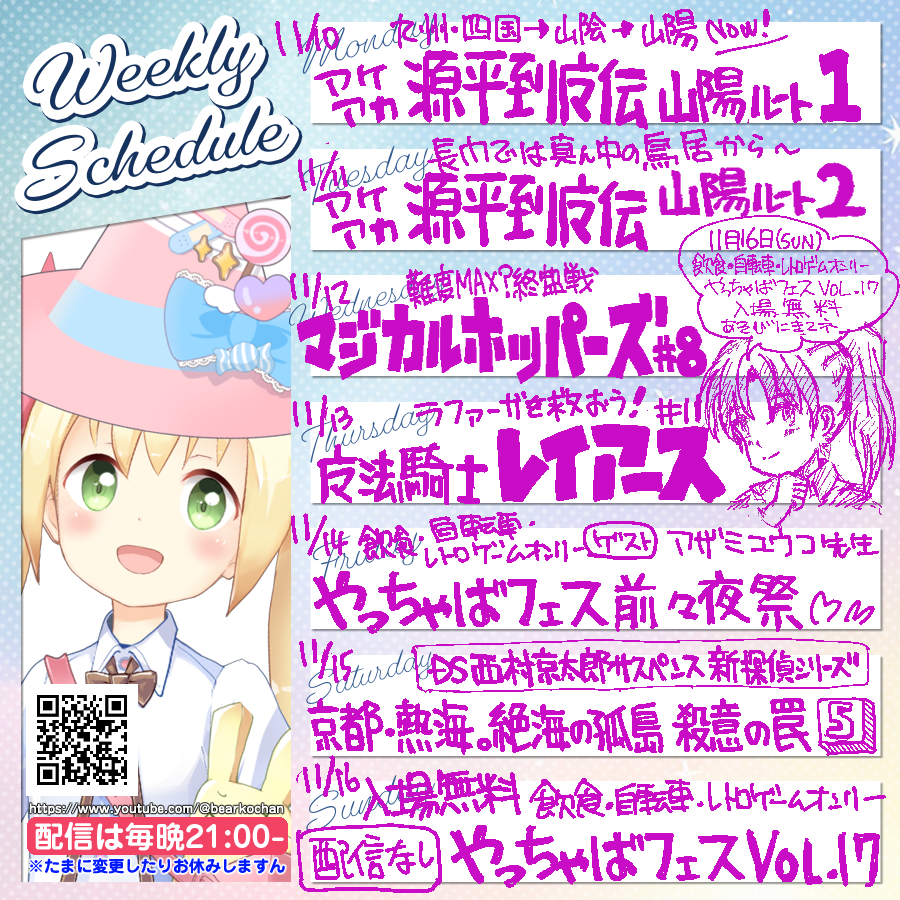
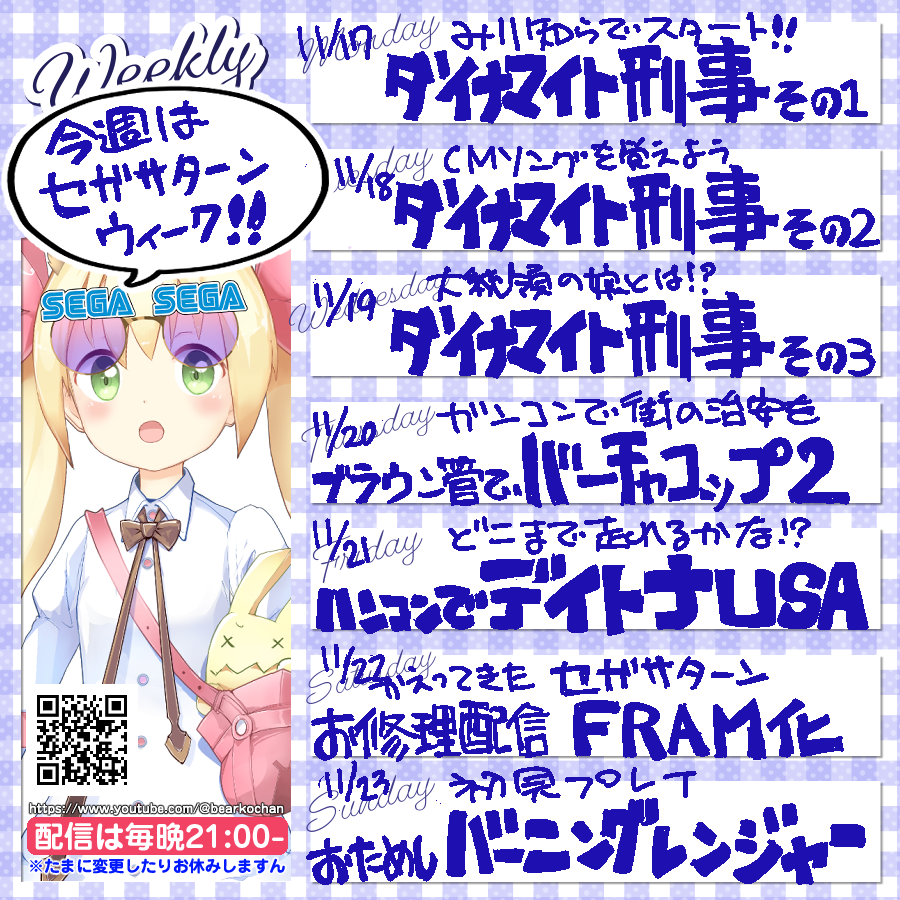
Daily update on 2025-11-17 14:00:00

diff --git a/index.html b/index.html
@@ -59,7 +59,21 @@
         </div>
 
         <!-- (今後の配信予定)ライブ配信セクション -->
-                                                
+                <div class="live-streams">            <h2>今後の配信予定</h2>                            <a href="https://www.youtube.com/watch?v=r2BaNuZFwe8" class="link-button live-stream-button" target="_blank">
+                    <div class="link-content">
+                        <h3>【セガ誕生週を祝おう!!】ダイナマイト刑事 《パート1》</h3>
+                        <h4>2025年11月17日(月) 21時00分 [配信予定]</h4>
+                    </div>
+                    <div class="link-icon">
+                        <img src="https://i.ytimg.com/vi/r2BaNuZFwe8/maxresdefault_live.jpg" alt="Thumbnail" class="stream-thumbnail">
+                    </div>
+                    <div class="link-content">
+                        <p>11月22日はセガサターンの発売日! そんな訳で今週はセガサターンのいろんな作品で遊びましょっ 第一弾は「ダイナマイト刑事」。ファンの多い本作を、まるっきり初見プレイで体験していきますよ〜!!
+
+</p>
+                    </div>
+                </a>
+                    </div>
         <!-- (配信アーカイブ)ライブ配信セクション -->
         <div class="live-streams">
             <h2>配信アーカイブ (最新20件)</h2>
@@ -323,20 +337,6 @@
                     </div>
                     <div class="link-content">
                         <p>人は徳を積み重ねる事により運気を引き寄せるッ PS・SSオリパでレアソフトをゲットしましょーう!! うおおおッ!!
-
-</p>
-                    </div>
-                </a>
-                            <a href="https://www.youtube.com/watch?v=hTPuqNnmTus" class="link-button live-stream-button" target="_blank">
-                    <div class="link-content">
-                        <h3>DS西村京太郎サスペンス 新探偵シリーズ「京都・熱海・絶海の孤島 殺意の罠」 (FILE 2)</h3>
-                        <h4>2025年10月25日(土) 21時01分 [アーカイブ]</h4>
-                    </div>
-                    <div class="link-icon">
-                        <img src="https://i.ytimg.com/vi/hTPuqNnmTus/maxresdefault.jpg" alt="Thumbnail" class="stream-thumbnail">
-                    </div>
-                    <div class="link-content">
-                        <p>西村京太郎先生 原案・監修・TECMO制作による本格サスペンスで謎を解き明かそう!  四畳半の迷宮で発生した殺●事件。犯人は一体誰〜!?
 
 </p>
                     </div>
